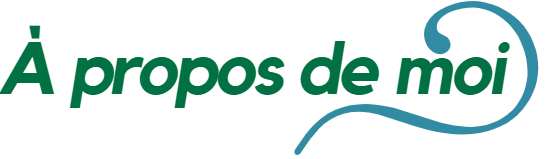
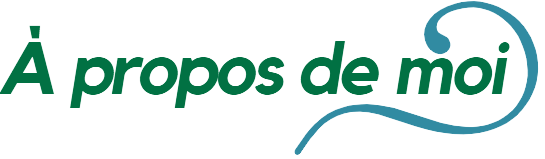
portfolio

diff --git a/index.html b/index.html
@@ -76,7 +76,7 @@
 
     <!-- About me -->
     <div id="ancre1" class="imagepropos">
-        <img src="./public/images/me.PNG" loading="lazy">
+        <img src="./public/images/me.png" loading="lazy">
     </div>
     <div class="globaldiv">
         <article class="container">
@@ -100,7 +100,7 @@
 
     <!-- skills -->
     <div id="ancre2" class="imageskill">
-        <img src="./public/images/skills.PNG" loading="lazy">
+        <img src="./public/images/skills.png" loading="lazy">
     </div>
 
     <div class="containercarousel">
@@ -125,7 +125,7 @@
 
     <!-- project -->
     <div id="ancre3" class="imagesprojects">
-        <img src="./public/images/projects.PNG" loading="lazy">
+        <img src="./public/images/projects.png" loading="lazy">
     </div>
 
 
